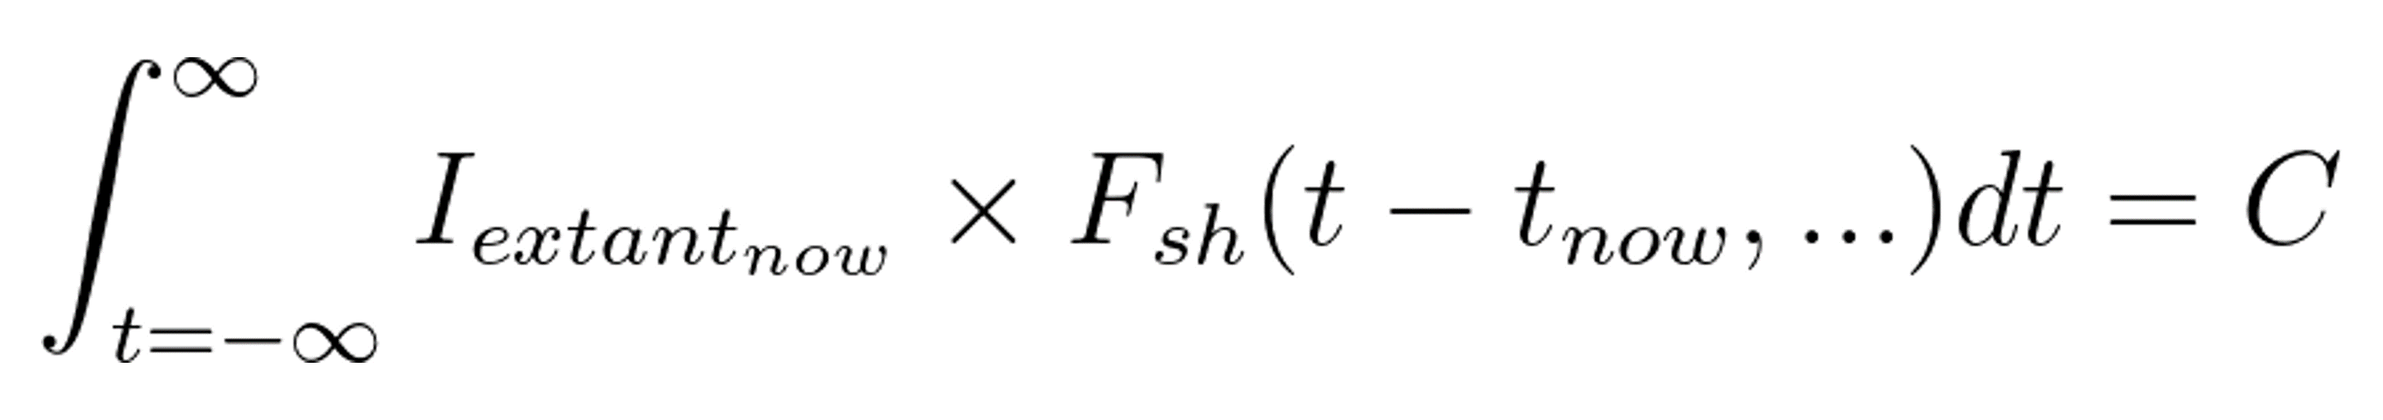
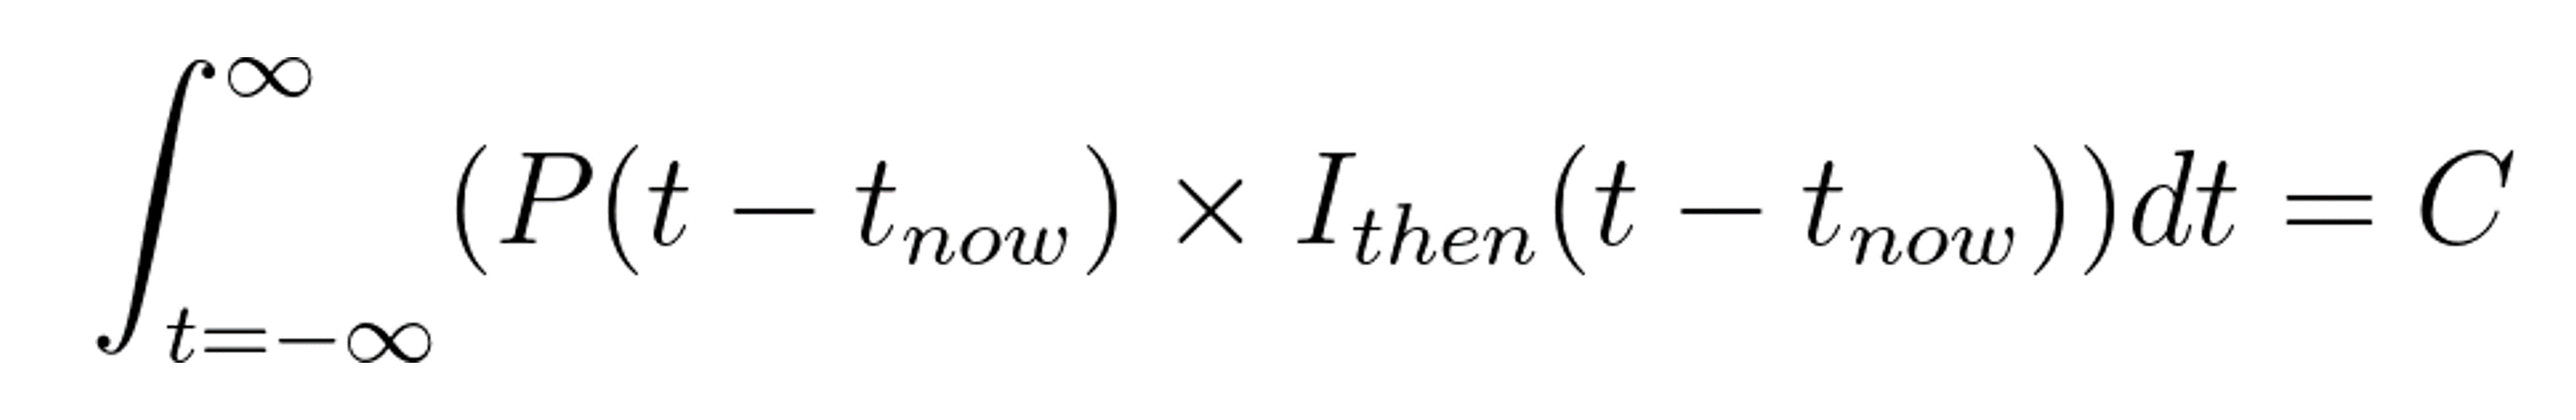
first draft, really

Changed region(s): [[0.1558, 0.3536, 0.8727, 0.6777], [0.0, 0.1179, 0.187, 0.884], [0.9351, 0.3536, 0.9974, 0.5893]]

diff --git a/README.md b/README.md
@@ -37,58 +37,33 @@ It seems possible that different particle interactions will lose differing amoun
 If we look a toy system of isotopically stable gas held in thermal equilibrium, we can write an equation to illustrate the concept. Most practical versions of this equation will be much more complex, but the principle will remain the same.
 
 * *I<sub>now</sub>* is the aggregate of all information that is carried by the particles under consideration at time = now. This simplified notion of time disregards the speed of causality.
-* *P<sub>avg</sub>* is the average fraction of causal information retained in each interaction. This number is slightly less than one, and can be thought of as *precision*.
+* *P<sub>avg</sub>* is the average fraction of causal information retained in each interaction. This number is slightly less than one due to the loss of precision in the calculation that performs the transformation of particle properties, and can be thought of as *precision* or *predictability/postdictability*.
 * *K<sub>avg</sub>* is the average number of interactions that each particle experiences per second.
-* *P(t - t<sub>now</sub>)* is the cumulative fraction of causal information wihch is retained during the interactions withing the time interval. It is approximately equal to *P<sub>avg</sub>* raised to the power of *K<sub>avg</sub>* times *(t - t<sub>now</sub>)*, except that it goes to exactly zero at time distances where its result becomes smaller than *(1 - P<sub>avg</sub>)*.
+* *P(t - t<sub>now</sub>)* is the cumulative fraction of causal information wihch is retained during the interactions withing the time interval. It is approximately equal to *P<sub>avg</sub>* raised to the power of *(K<sub>avg</sub>* &#215; *(t - t<sub>now</sub>))*, except that it goes to exactly zero for time distances beyond which the magnitude of the result dips below approximately *(1 - P<sub>avg</sub>)*.
 * *I<sub>then</sub>(t - t<sub>now</sub>)* is all of the information about the moment at time *t* which can be calculated from *I<sub>now</sub>* using infinite precision math.
-
-
-
-
+* *C* is the conserved value of causality.
 
  In equation form, causality is the integral of all extant information about how the universe interacts with itself from time negative infinity to time plus infinity for any given *t<sub>now</sub>*. 
 
  ![alt text](Causality.png)
 
-## The meaning of *F<sub>sh</sub>*
-The function *F<sub>sh</sub>* expresses how causality is discounted as time passes, which is far too complex to express in full for a complex system such as a rocky planet. But there are isolated portions of simple systems where it can be calculated, and a high-temperature and high pressure gas of stable isotopes at equilibrium is one such. 
+The author does not know what the dimensionality of terms *I<sub>then</sub>* or *C* should be, but that deficit does not affect the implications of the conserved property.
 
-As must be true for conservation laws, there is more than one way to derive this one. One way that the conservation of causality can be implied in full is by asserting that that a universe of finite spatial size but infinite longevity may be represented by a finite amount of information. If specifying a universe of finite size and infinite longevity using only a finite amount of information is physically possible, then our universe must contain only a finite amount of information. That's because parsimony insists that a universe which requires an infinite amount of information in order to exist must be infinitely less likely than a similar-looking universe requiring only a finite amount of information. 
+## Implications
+### Some interactions may perhaps be lossless
+Because loss of causality happens due to loss of precision during computationally non-trivial interactions, it seems possible that there could exist mathematically trivial interactions which might escape this loss. Perhaps photon reflections which are close enough to normal might invoke a lossless transform of sign inversion, for example.
 
-Knowing that the information content of our universe is finite tells us that the informaiton content of each particle is also finite, and this tells us that the causal past for a particle containing finite information is also finite in time. This is because for the past to affect the present, those past effects must be encoded in the information that defines the particle somehow. If a past event has no representation in that particle's information, then it has no causal effect on whatever the particle might do next, so that past event is not part of the particle's causal past.
+## Time is not reversible
+The loss of causality during non-trivial interactions means that time is fundamentally irreversible in a universe defined by a finite amount of information.
 
-This <i>F</i>sh function captures the fact that shit happens, and it's hard not to notice that science laboratories have a hard time capturing this reality where it can be examined. Part of the issue of seing shit happen in the laboratory is that when shit does happen we stop calling it laboratory conditions. Your sample get zapped by a rare gargantuan cosmic ray shower? Throw that one out!
+### Causality in the presence of structure
+It is relatively easy to visualize causality for liquids, gasses, and plasmas, but the self-stabilizing structure of solids make them more difficult to visualize. They pose no problem to the overall concept, but their mathematical representation is beyond the author.
 
+### Conservation of causality versus conservation of information
+For small interactional distances, *P(t - t<sub>now</sub>)* is so close to unity that conservation of causality collapses to the current incorrect view of conservation of information, which makes the information-proliferating assumption that *P(t - t<sub>now</sub>)* is unity for all time *t*.
 
- is only nearly correct, and that error arises from the need to generalize this law to account for elapsed time.
+### Event horizons are no longer so interesting
+Knowing that specific causality is not conserved while the sum total of causality is conserved simplifies black holes enormously. Rather than information being mysteriously encoded onto an event horizon, an infalling body gets bathed in high-temperature and high-pressure reactions which quickly erases any causality contained in the structure of the infalling body. The simple mass-energy of the black hole is then a perfecly fitting container for all of the black hole's information.
 
-Completing the full principle of conservation of information 
-
-The fact that this value is constant over time also means that it cannot be infinite. This means that, contrary to the more common interpretation, specific bits of information are continually being created and destroyed, while only the universe's total quantity of information is conserved. Every subatomic particle interaction "creates" information in this view, and the math says that this must be causally connected, at least statistically, to an offsetting decrease in certainty in the rest of the sytsem. The value being conserved is the sum of all physically extant information about the present, plus all information about the past that can be inferred from the physically extant information about the present, plus all information about the future that can be predicted from physically extant information about the present. The bulk of physically extant information will cluster around the present, with inferrable information contributing less as time distance increases. Information is statistical in nature, which means that farther away an event is in time, the more the information must be discounted due to the exponentially cumulative degradation of statistical certainty over repeated temporal iterations.
-
-
-
-
-This method of calculating information conservation makes it possible to define a finite universe of infinite longevity with a finite amount of information. It also implies that a deterministic non-repeating universe would contain an infinite amount of information at all times in its existence, which to the author seems appropriately impossible. 
-
-This calculation of conserved information should have the effect of removing infinities from some calculations involving time because conserved causal information means causal time is finite; the ability to infer the past or predict the future degrades with increasing distance in time, and at some point it drops all the way to zero for smaller sizes and unstable structures. An obvious example is a gas held at constant high temperature and pressure. The precise state of such a gas has no causational correlation with states even a few seconds away, meaning that the past and future have reached their physical limits in finite time. Conversely, condensed matter at low temperatures has a potentially very lengthy but still finite future.
-
-This calculation implies a special meaning for black holes, which is that rather than removing information from the universe, they merely remove information from the present and push it into the extremely distant future by evaporation where it is still part of the integral. Black holes are then remarkable for having a much longer causal future than other forms of matter. But the black hole's specific future information is not identical to the information that it absorbed in the past. Instead, the future information that is available is the object's emission spectrum predicted very precisely over a very long time. An emission spectrum is very little information by itself, but over the time required for the object to evaporate, that small amount of information becomes a very large amount.
-
-The author lacks the skill to assess whether this conversion of lost past information to gained future predictability balances properly, and so cannot make any further informed comment, but the unique situation of evaporating black holes having such a strong effect on the total conserved information of the universe over very lengthy time periods does seem to suggest that the mathematical method for discounting information over various time distances might be closely related to the time evolution of evaporating black holes. 
-
-Calculating conserved information in this new way places a limit on the kinds of universes that can make their way into being; universes that can come into being using only a finite amount of informaiton would have to be infinitely more common than universes which require an infinite amount of information to come into being.
-
-They also make the possibly rash assumption that the math needed to integrate statistical information over time will arise fairly smoothly from standard statistical methods by enforcing this new conservation constraint, but those skills are also beyond them.
-
-This proposal gives a more solid mathematical foundation to the fact that the future and past are more predictable and postdictable on larger scales than on smaller. It says that predictability and postdictability of the future and past reach zero at over even relatively small time distances at sub-atomic particle scales. 
-
-Perhaps the simplest version of this new picture of the universe is that every subatomic particle is a multi-dimensional cloud of probability consisting of the time dimension, three spatial dimensions, plus the minimum number of dimensions required to describe its modes of interaction, and containing a constant amount of information. When one cloud interacts with another, the result is some new non-zero number of clouds whose total adds up to the original two. And the total system somehow conserves total information integrated over time. This suggests a physical limitation; that information is somehow encoded in the interactions between the particles of mass-energy composing physical reality. Parsimony suggests that the particles literally are the information, and vice-versa. The author presumes that some bright spark who, unlike the author, actually knows the relevant math will establish a one-to-one correspondence at some point.
-
-Adding up the information in every multi-dimensional particle cloud in the universe at every instant (ignoring the speed of causality) gives a constant value, which means that every time two particles interact, something has happened, which increases the local knowledge in at least some dimensions. (The system went from not knowing something about what would happen next to knowing something about what just happened.) This means that somewhere in the system an offsetting amount of certainty about the past or future must be lost to compensate. It is appealing to presume that this constancy of information happens at the level of interaction, but it is perhaps possible that the conservation somehow happens at some other level.
-
-To (yet again) say the same thing slightly differently, the past and future have finite limits that are a function of the scale and stability of the structures in the system, and beyond those limits the past has zero causal effect, meaning that the past stops at that point. Similarly, the future has finite limits to predictability, and beyond those limits the future is no longer physically meaningful because it exhibits zero causal connection to the present. If we are unable to affect a future by our actions, then it is not causally our future in any real sense.
-
-The author suspects that any alternative to this viewpoint will require that proposed alternative universe to contain infinite information, making that alternate interpretation infinitely unlikely in comparison. They further suspect that integrating this version of the information conservation law into quantum mechanics and then into general relativity will not prove to be an intractable task, and that doing so will render the two mutually compatible. Of course, this is the cheerful optimism of someone who doesn't have to do the hard work.
-
-The author’s mathematical skills break down completely here, and they hope that others will find this idea useful.
+## Next Steps
+The author’s enthusiasm and mathematical skills break down completely at this point, and they have no intention of pursuing this beyond this basic sketch. They hope that others will find this idea useful.
